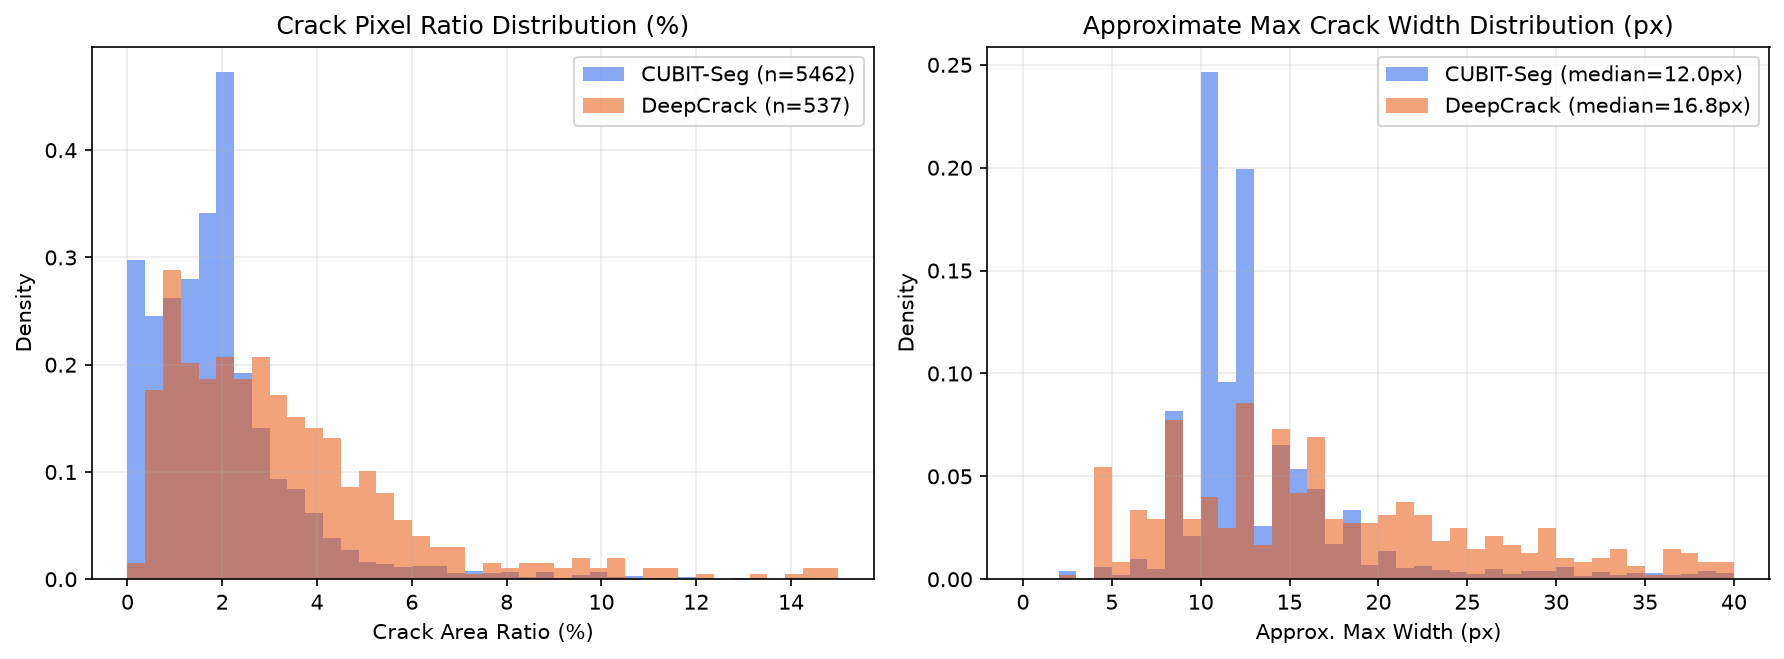
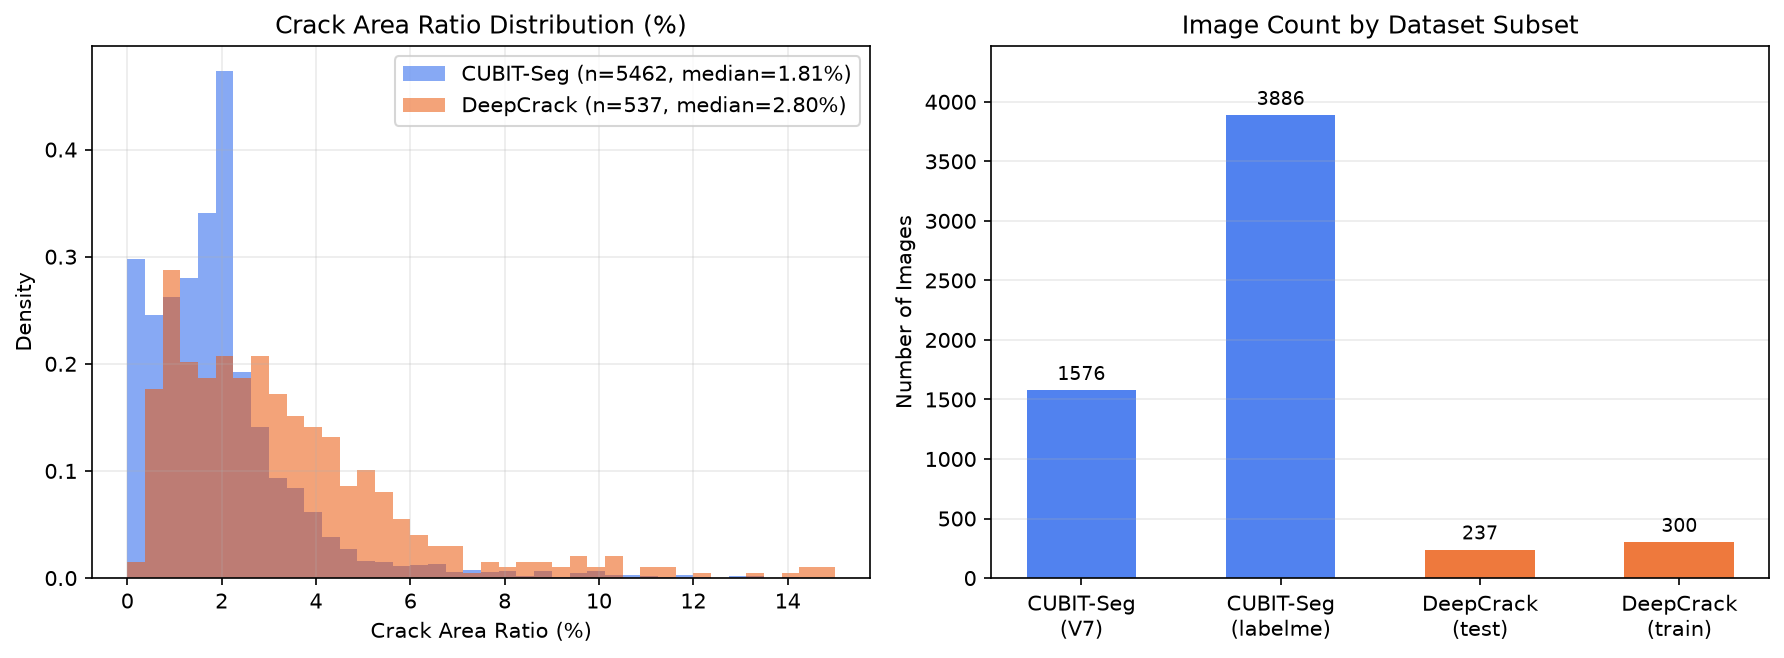
feat(measure): add crack length/width quantification and remove EDA duplication

diff --git a/src/measure.py b/src/measure.py
@@ -1,0 +1,103 @@
+"""Geometric quantification of cracks: length and width from a binary mask.
+
+Pipeline per connected crack: skeletonize -> prune short spurs -> sum the
+skeleton path length -> read the local width from the distance transform.
+"""
+
+from __future__ import annotations
+
+from dataclasses import dataclass
+from typing import List
+
+import cv2
+import numpy as np
+from scipy import ndimage as ndi
+from skimage.morphology import skeletonize
+
+_EIGHT = np.ones((3, 3), dtype=np.uint8)  # 8-connectivity structuring element
+
+
+@dataclass(frozen=True)
+class CrackMeasurement:
+    """Measurements of a single crack, in `pixel_size` units per pixel."""
+
+    length: float
+    max_width: float
+    mean_width: float
+
+
+def skeleton_length(skeleton: np.ndarray) -> float:
+    """Length of a 1-px-wide skeleton: orthogonal steps count 1, diagonal steps sqrt(2).
+
+    A diagonal link is skipped when the two pixels are already joined through
+    an orthogonal path (staircase corners), so corners are not double counted.
+    """
+    s = skeleton.astype(bool)
+    orthogonal = (s[:, :-1] & s[:, 1:]).sum() + (s[:-1, :] & s[1:, :]).sum()
+    diagonal = (s[:-1, :-1] & s[1:, 1:] & ~s[:-1, 1:] & ~s[1:, :-1]).sum() + (
+        s[:-1, 1:] & s[1:, :-1] & ~s[:-1, :-1] & ~s[1:, 1:]
+    ).sum()
+    return float(orthogonal + np.sqrt(2.0) * diagonal)
+
+
+def _prune_spurs(skeleton: np.ndarray, max_spur: int) -> np.ndarray:
+    """Remove side branches shorter than `max_spur` pixels that end freely at a junction."""
+    if max_spur <= 0:
+        return skeleton
+
+    s = skeleton.astype(np.uint8)
+    neighbors = ndi.convolve(s, _EIGHT, mode="constant") - s
+    endpoints = skeleton & (neighbors == 1)
+    junction_zone = ndi.binary_dilation(skeleton & (neighbors >= 3), structure=_EIGHT)
+
+    # Cut the skeleton at junctions so every remaining piece is one branch
+    branches, _ = ndi.label(skeleton & ~junction_zone, structure=_EIGHT)
+    touches_junction = ndi.binary_dilation(junction_zone, structure=_EIGHT)
+    sizes = np.bincount(branches.ravel())
+
+    spur_ids = np.intersect1d(branches[endpoints], branches[touches_junction])
+    spur_ids = spur_ids[spur_ids > 0]
+    spur_ids = spur_ids[sizes[spur_ids] < max_spur]
+    return skeleton & ~np.isin(branches, spur_ids)
+
+
+def measure_cracks(
+    mask: np.ndarray,
+    min_area: int = 0,
+    max_spur: int = 0,
+    pixel_size: float = 1.0,
+) -> List[CrackMeasurement]:
+    """Measure every connected crack in a binary mask.
+
+    Args:
+        mask: 2D array, non-zero pixels are crack.
+        min_area: ignore connected components with fewer pixels (noise filter).
+        max_spur: prune skeleton side branches shorter than this many pixels.
+        pixel_size: physical size of one pixel (e.g. mm/px); 1.0 keeps pixel units.
+
+    Width at a skeleton pixel is `2 * d - 1`, where `d` is its distance to the
+    nearest background pixel, which is exact for odd pixel widths.
+    """
+    binary = (np.asarray(mask) > 0).astype(np.uint8)
+    if binary.ndim != 2:
+        raise ValueError(f"Expected 2D mask, got shape {binary.shape}")
+
+    distance = cv2.distanceTransform(binary, cv2.DIST_L2, cv2.DIST_MASK_PRECISE)
+    labels, _ = ndi.label(binary, structure=_EIGHT)
+
+    cracks: List[CrackMeasurement] = []
+    for label, box in enumerate(ndi.find_objects(labels), start=1):
+        component = labels[box] == label
+        if component.sum() < min_area:
+            continue
+
+        skeleton = _prune_spurs(skeletonize(component), max_spur)
+        widths = 2.0 * distance[box][skeleton] - 1.0
+        cracks.append(
+            CrackMeasurement(
+                length=skeleton_length(skeleton) * pixel_size,
+                max_width=float(widths.max()) * pixel_size,
+                mean_width=float(widths.mean()) * pixel_size,
+            )
+        )
+    return cracks
